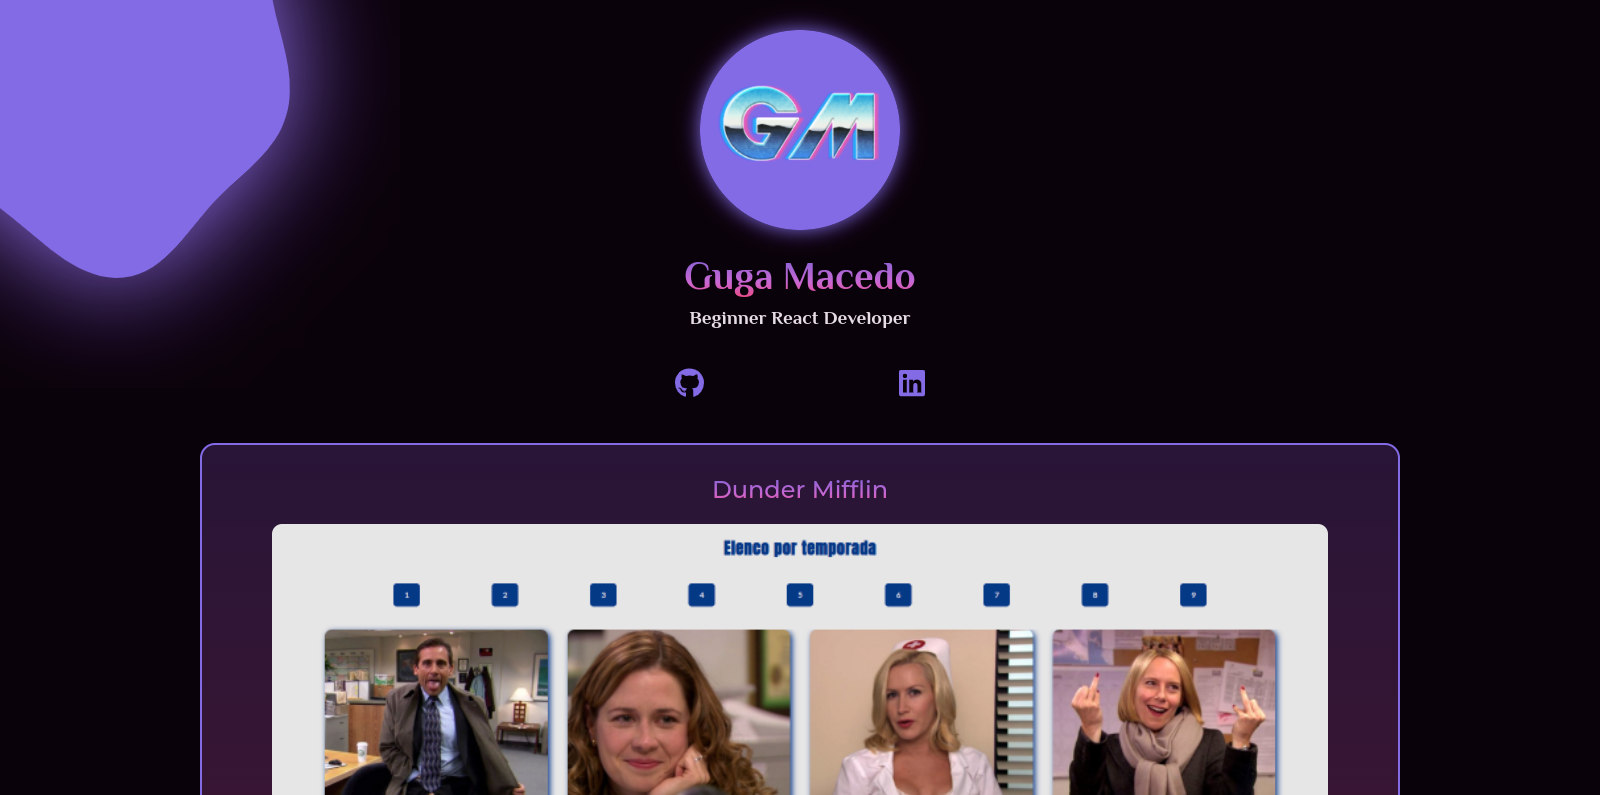
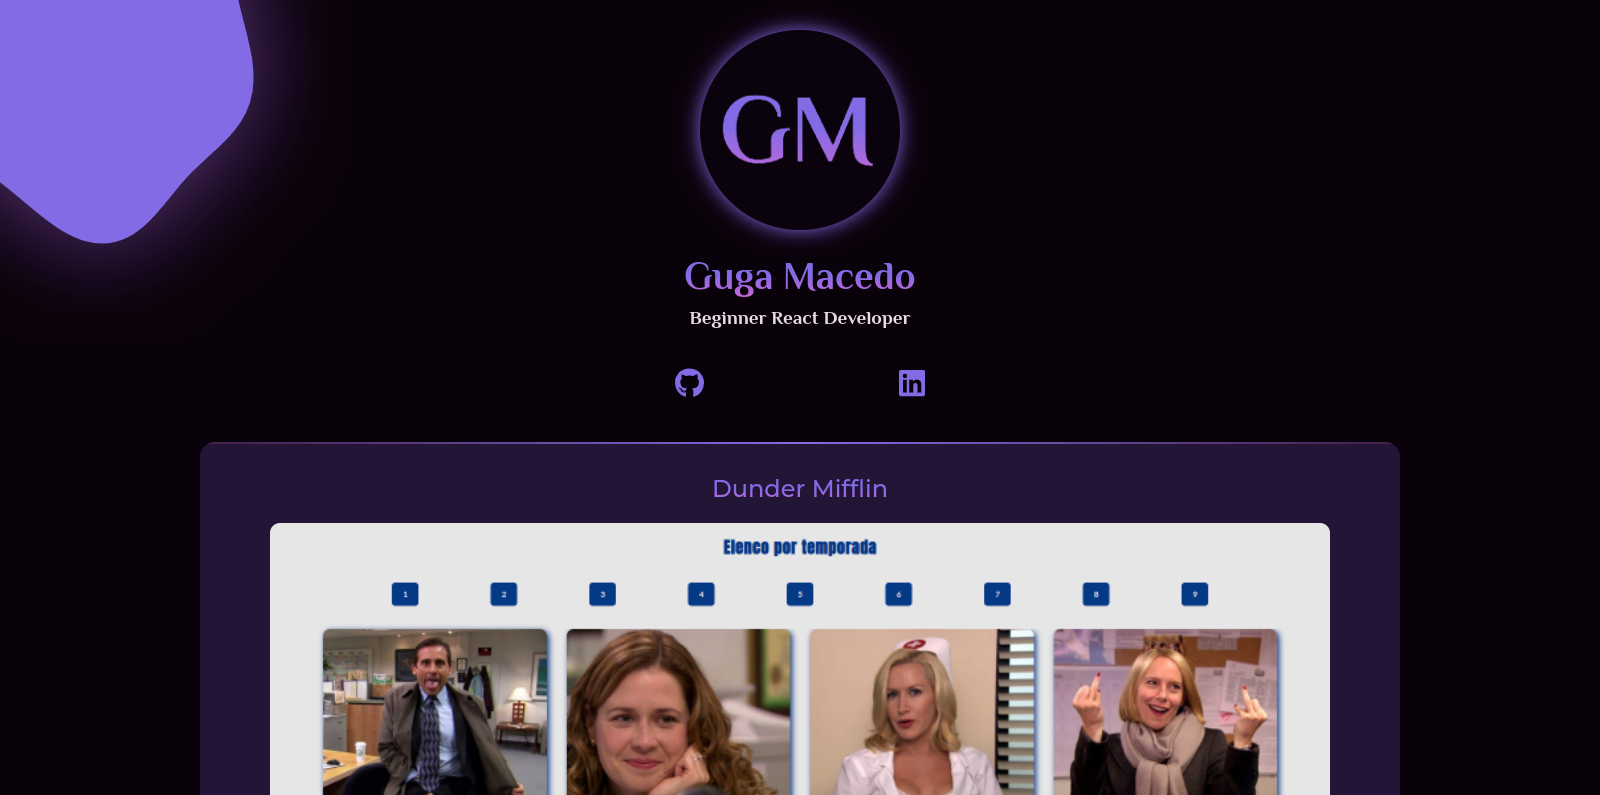
fix: colors adjust

diff --git a/src/components/Card/Card.module.css b/src/components/Card/Card.module.css
@@ -8,17 +8,17 @@
   align-items: center;
   max-width: 1700px;
   padding: 0 70px 30px;
-  background: linear-gradient(180deg, rgba(130, 87, 230, 0.2) -17.67%, rgba(232, 63, 136, 0.3) 118.51%);
+  background: linear-gradient(180deg, rgba(130, 87, 230, 0.2) 50%, rgba(200, 83, 211, 0.3));
   border-radius: 15px;
   margin-bottom: 60px;
   border: 2px solid;
-  -o-border-image: linear-gradient(90deg, rgba(10, 0, 10, 0), #7953d3, rgba(10, 0, 10, 0)) 1;
-     border-image: linear-gradient(90deg, rgba(10, 0, 10, 0), #7953d3, rgba(10, 0, 10, 0)) 1;
+  -o-border-image: linear-gradient(90deg, rgba(10, 0, 10, 0), #8257e6, rgba(10, 0, 10, 0)) 1;
+     border-image: linear-gradient(90deg, rgba(10, 0, 10, 0), #8257e6, rgba(10, 0, 10, 0)) 1;
   border-left: 0;
   border-right: 0;
 }
 .main .cards .card h3 {
-  background: linear-gradient(180deg, rgb(121, 83, 211), #c853d3 65%, #e83f88);
+  background: linear-gradient(180deg, #8257e6 50%, #c853d3);
   -webkit-background-clip: text;
   background-clip: text;
   -webkit-text-fill-color: transparent;
@@ -95,4 +95,4 @@
   .main .cards .card div p:last-child img {
     height: 20px;
   }
-}
+}/*# sourceMappingURL=Card.module.css.map */

diff --git a/src/components/Header/Header.module.css b/src/components/Header/Header.module.css
@@ -6,7 +6,7 @@
   top: 0;
   left: 0;
   z-index: -1;
-  width: 400px;
+  width: 350px;
   transform: rotateY(180deg);
 }
 .header .avatar {
@@ -17,12 +17,12 @@
   width: 200px;
   border-radius: 50%;
   box-shadow: 0 0 20px #8257e6;
-  background: linear-gradient(180deg, rgba(130, 87, 230, 0.2) -17.67%, rgba(232, 63, 136, 0.3) 118.51%);
+  background: #8257e6;
 }
 .header .avatar h1 {
   font-size: 2.4rem;
   margin: 20px 0 10px;
-  background: linear-gradient(180deg, #7953d3, #c853d3 65%, rgb(232, 63, 136));
+  background: linear-gradient(180deg, #8257e6 50%, #c853d3);
   -webkit-background-clip: text;
   background-clip: text;
   -webkit-text-fill-color: transparent;
@@ -43,7 +43,7 @@
 
 @media (min-width: 1900px) {
   .header .stain {
-    width: 600px;
+    width: 500px;
   }
   .header .avatar img {
     width: 300px;
@@ -61,7 +61,7 @@
 }
 @media (max-width: 820px) {
   .header .stain {
-    width: 300px;
+    width: 250px;
   }
 }
 @media (max-width: 640px) {
@@ -95,4 +95,4 @@
     margin: 20px auto;
     width: 70%;
   }
-}
+}/*# sourceMappingURL=Header.module.css.map */

diff --git a/public/index.html b/public/index.html
@@ -2,10 +2,10 @@
 <html lang="en">
   <head>
     <meta charset="utf-8" />
-    <link rel="icon" href="/favicon.svg" />
+    <link rel="icon" href="/logo.svg" />
     <meta name="title" content="Guga Macedo" />
     <meta name="viewport" content="width=device-width, initial-scale=1.0" />
-    <meta name="description" content="Guga Macedo websites projects" />
+    <meta name="description" content="My Portfolio" />
     <meta name="image" content="https://raw.githubusercontent.com/gugamacedo/gugamacedo-vercel/main/public/portfolio.png" />
     <link rel="preconnect" href="https://fonts.googleapis.com" />
     <link rel="preconnect" href="https://fonts.gstatic.com" crossorigin />

diff --git a/src/components/Header/Header.module.scss b/src/components/Header/Header.module.scss
@@ -8,7 +8,7 @@
     top: 0;
     left: 0;
     z-index: -1;
-    width: 400px;
+    width: 350px;
     transform: rotateY(180deg);
   }
 
@@ -20,7 +20,7 @@
       width: 200px;
       border-radius: 50%;
       box-shadow: 0 0 20px $primary-color;
-      background: $primary-gradient;
+      background: $primary-color;
     }
 
     h1 {
@@ -54,7 +54,7 @@
 @media (min-width: 1900px) {
   .header {
     .stain {
-      width: 600px;
+      width: 500px;
     }
 
     .avatar {
@@ -83,7 +83,7 @@
 @media (max-width: 820px) {
   .header {
     .stain {
-      width: 300px;
+      width: 250px;
     }
   }
 }

diff --git a/src/components/Card/vars.scss b/src/components/Card/vars.scss
@@ -1,5 +1,5 @@
-$primary-gradient: linear-gradient(180deg,rgba(130,87,230,.2) -17.67%,rgba(232, 63, 136, 0.3) 118.51%);
-$secondary-gradient: linear-gradient(180deg,rgb(121, 83, 211),#c853d3 65%,#e83f88);
+$primary-gradient: linear-gradient(180deg, rgba(130, 87, 230, 0.2) 50%, rgba(200, 83, 211, 0.3));
+$secondary-gradient: linear-gradient(180deg,#8257e6 50%,#c853d3);
 $primary-color:#8257e6;
 $secondary-color: rgb(230, 220, 230);
 $description: 'Montserrat', sans-serif;

diff --git a/src/components/Header/vars.scss b/src/components/Header/vars.scss
@@ -1,5 +1,4 @@
-$primary-gradient: linear-gradient(180deg,rgba(130,87,230,.2) -17.67%,rgba(232, 63, 136, 0.3) 118.51%);
-$secondary-gradient: linear-gradient(180deg,#7953d3,#c853d3 65%,rgb(232, 63, 136));
+$secondary-gradient: linear-gradient(180deg,#8257e6 50%,#c853d3);
 $primary-color:#8257e6;
 $secondary-color: rgb(230, 220, 230);
 $titles: 'Philosopher', sans-serif;

diff --git a/src/components/Card/Card.module.scss b/src/components/Card/Card.module.scss
@@ -15,7 +15,7 @@
       border-radius: 15px;
       margin-bottom: 60px;
       border: 2px solid;
-      border-image: linear-gradient(90deg,rgba(10, 0, 10, 0),#7953d3,rgb(10, 0, 10, 0)) 1;
+      border-image: linear-gradient(90deg,rgba(10, 0, 10, 0),#8257e6,rgb(10, 0, 10, 0)) 1;
       border-left: 0;
       border-right: 0;
 

diff --git a/src/index.css b/src/index.css
@@ -26,7 +26,7 @@ body::-webkit-scrollbar-track {
   /* color of the tracking area */
 }
 body::-webkit-scrollbar-thumb {
-  background: linear-gradient(180deg, #7953d3, #c853d3 65%, rgb(232, 63, 136));
+  background: linear-gradient(180deg,#8257e6 50%,#c853d3);
   /* color of the scroll thumb */
   border-radius: 25px;
 }

diff --git a/README.md b/README.md
@@ -1,4 +1,4 @@
-<h1>Guga Macedo Portfolio <img src="./public/favicon.svg" alt="Logo Portfolio" width="50px" /></h1>
+<h1>Guga Macedo Portfolio <img src="./public/logo.svg" alt="Logo Portfolio" width="50px" /></h1>
 
 - **[See my projects](https://gugamacedo.vercel.app/)**
 - Tech stack: ![React](https://img.shields.io/badge/React-8257e6.svg?style=for-the-badge&logo=react&logoColor=%2361DAFB) ![MUI](https://img.shields.io/badge/CSS--Modules-8257e6.svg?style=for-the-badge&logo=css3&logoColor=white)
